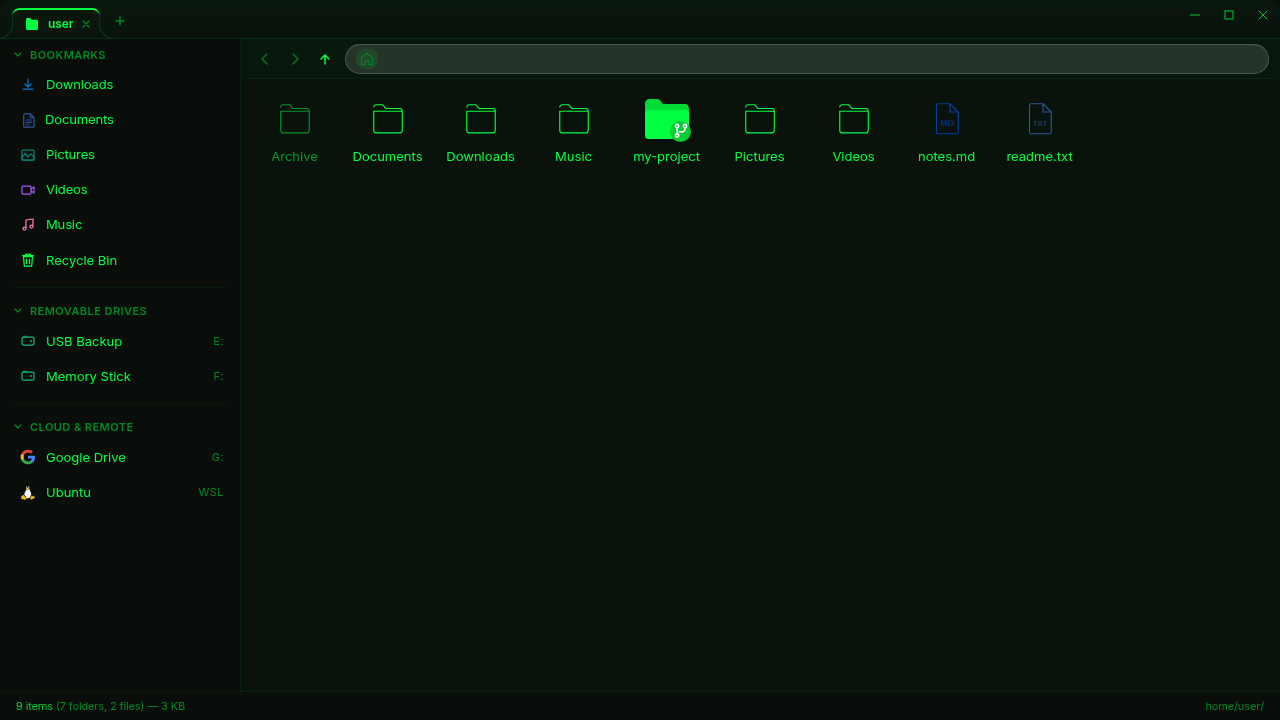
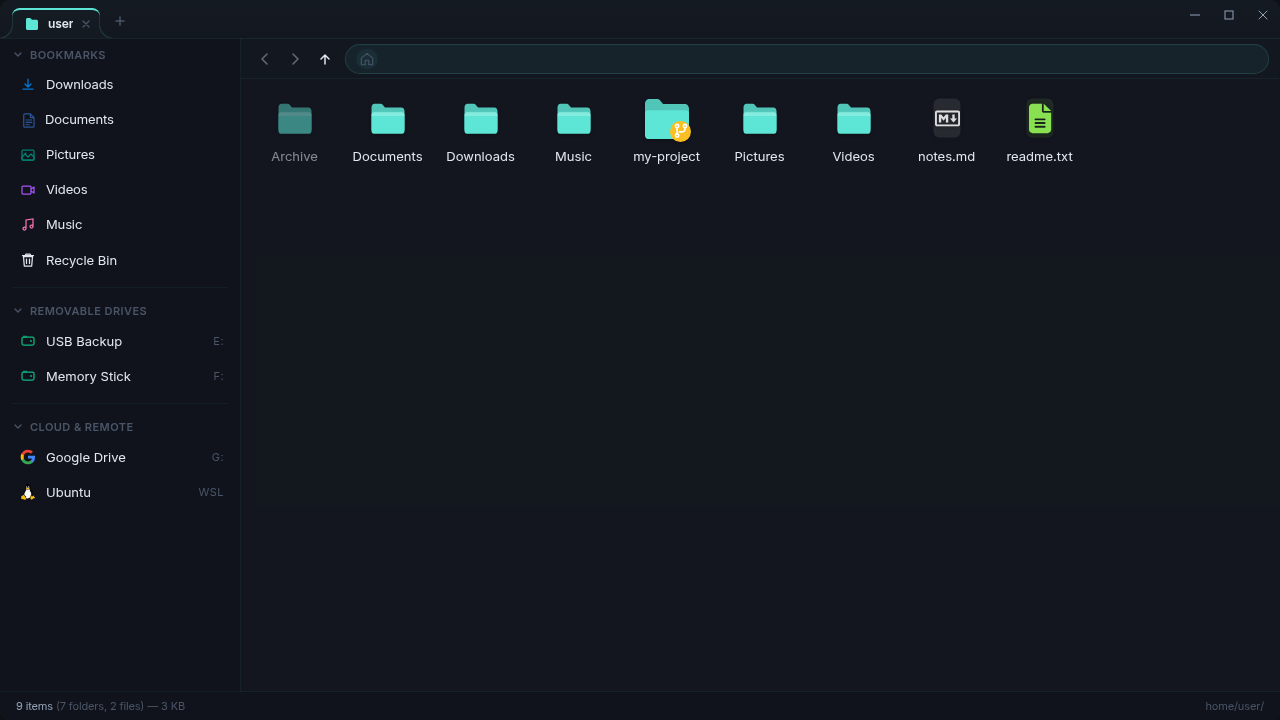
green: distinguish aurora git badge

diff --git a/e2e/git-repo-icon-theme.spec.ts b/e2e/git-repo-icon-theme.spec.ts
@@ -59,14 +59,14 @@ test(`Git repository folder badge follows the active theme in ${viewMode} view`,
   const auroraFolder = await renderedFolderColour(folder);
   expect(auroraBadge).not.toBe(auroraFolder);
   expect(auroraBadge).not.toBe(darkBadge);
+  if (viewMode === "tiles") {
+    await page.screenshot({ path: "evidence/ac-3-theme-change-git-badge.png" });
+  }
 
   await setTheme(page, "hacker");
   const hackerBadge = await badge.evaluate((element) => getComputedStyle(element).fill);
   const hackerFolder = await renderedFolderColour(folder);
   expect(hackerBadge).not.toBe(hackerFolder);
   expect(hackerBadge).not.toBe(darkBadge);
-  if (viewMode === "tiles") {
-    await page.screenshot({ path: "evidence/ac-3-theme-change-git-badge.png" });
-  }
 });
 }

diff --git a/src/lib/themes/aurora.css b/src/lib/themes/aurora.css
@@ -105,7 +105,7 @@
 
   /* Icon colors - teal folder, suggest material icons */
   --icon-folder: #5de5d5;
-  --icon-git-badge: var(--accent);
+  --icon-git-badge: #fbbf24;
   --theme-icon-pack: 'material';
 
   /* Background animation - starfield with constellation lines */
